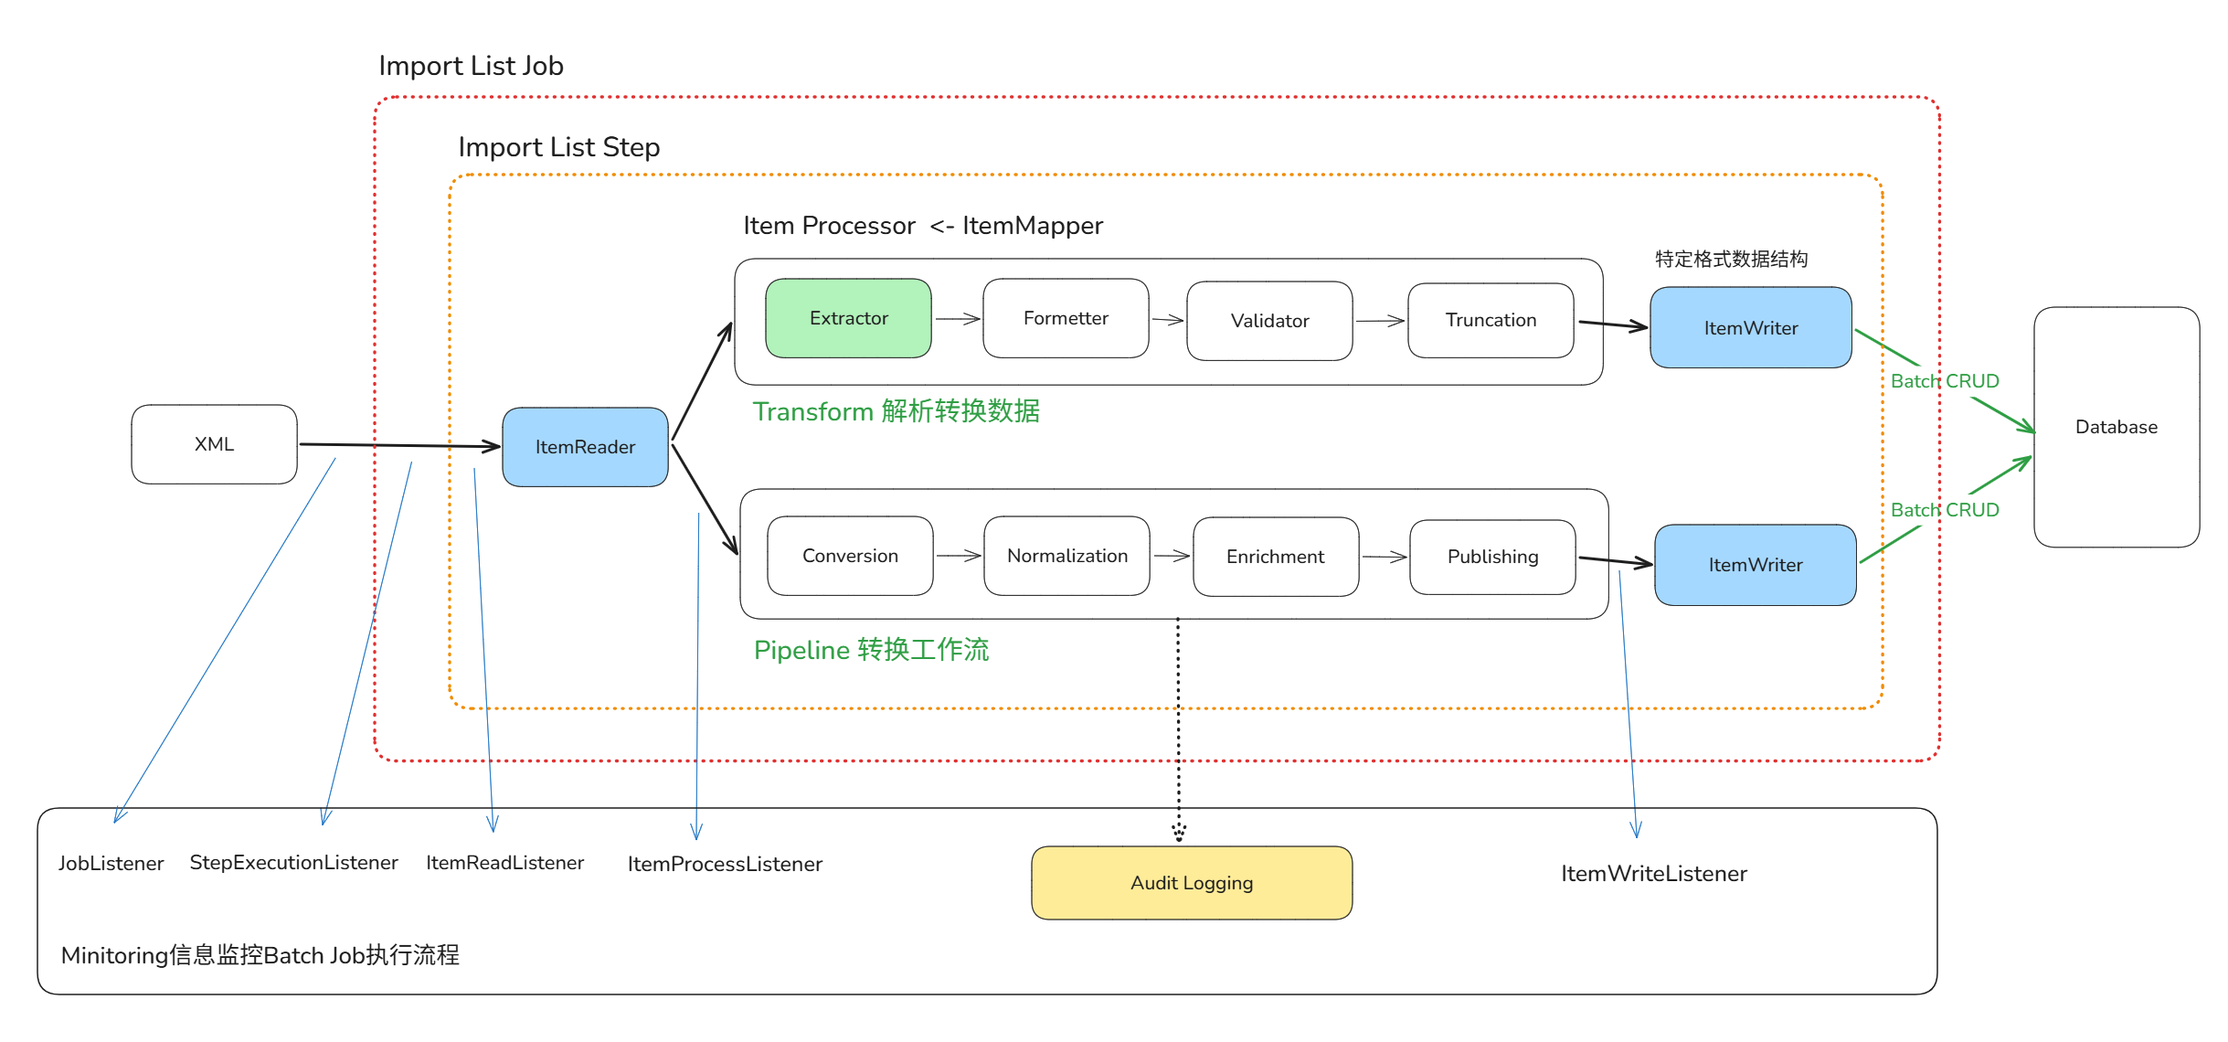
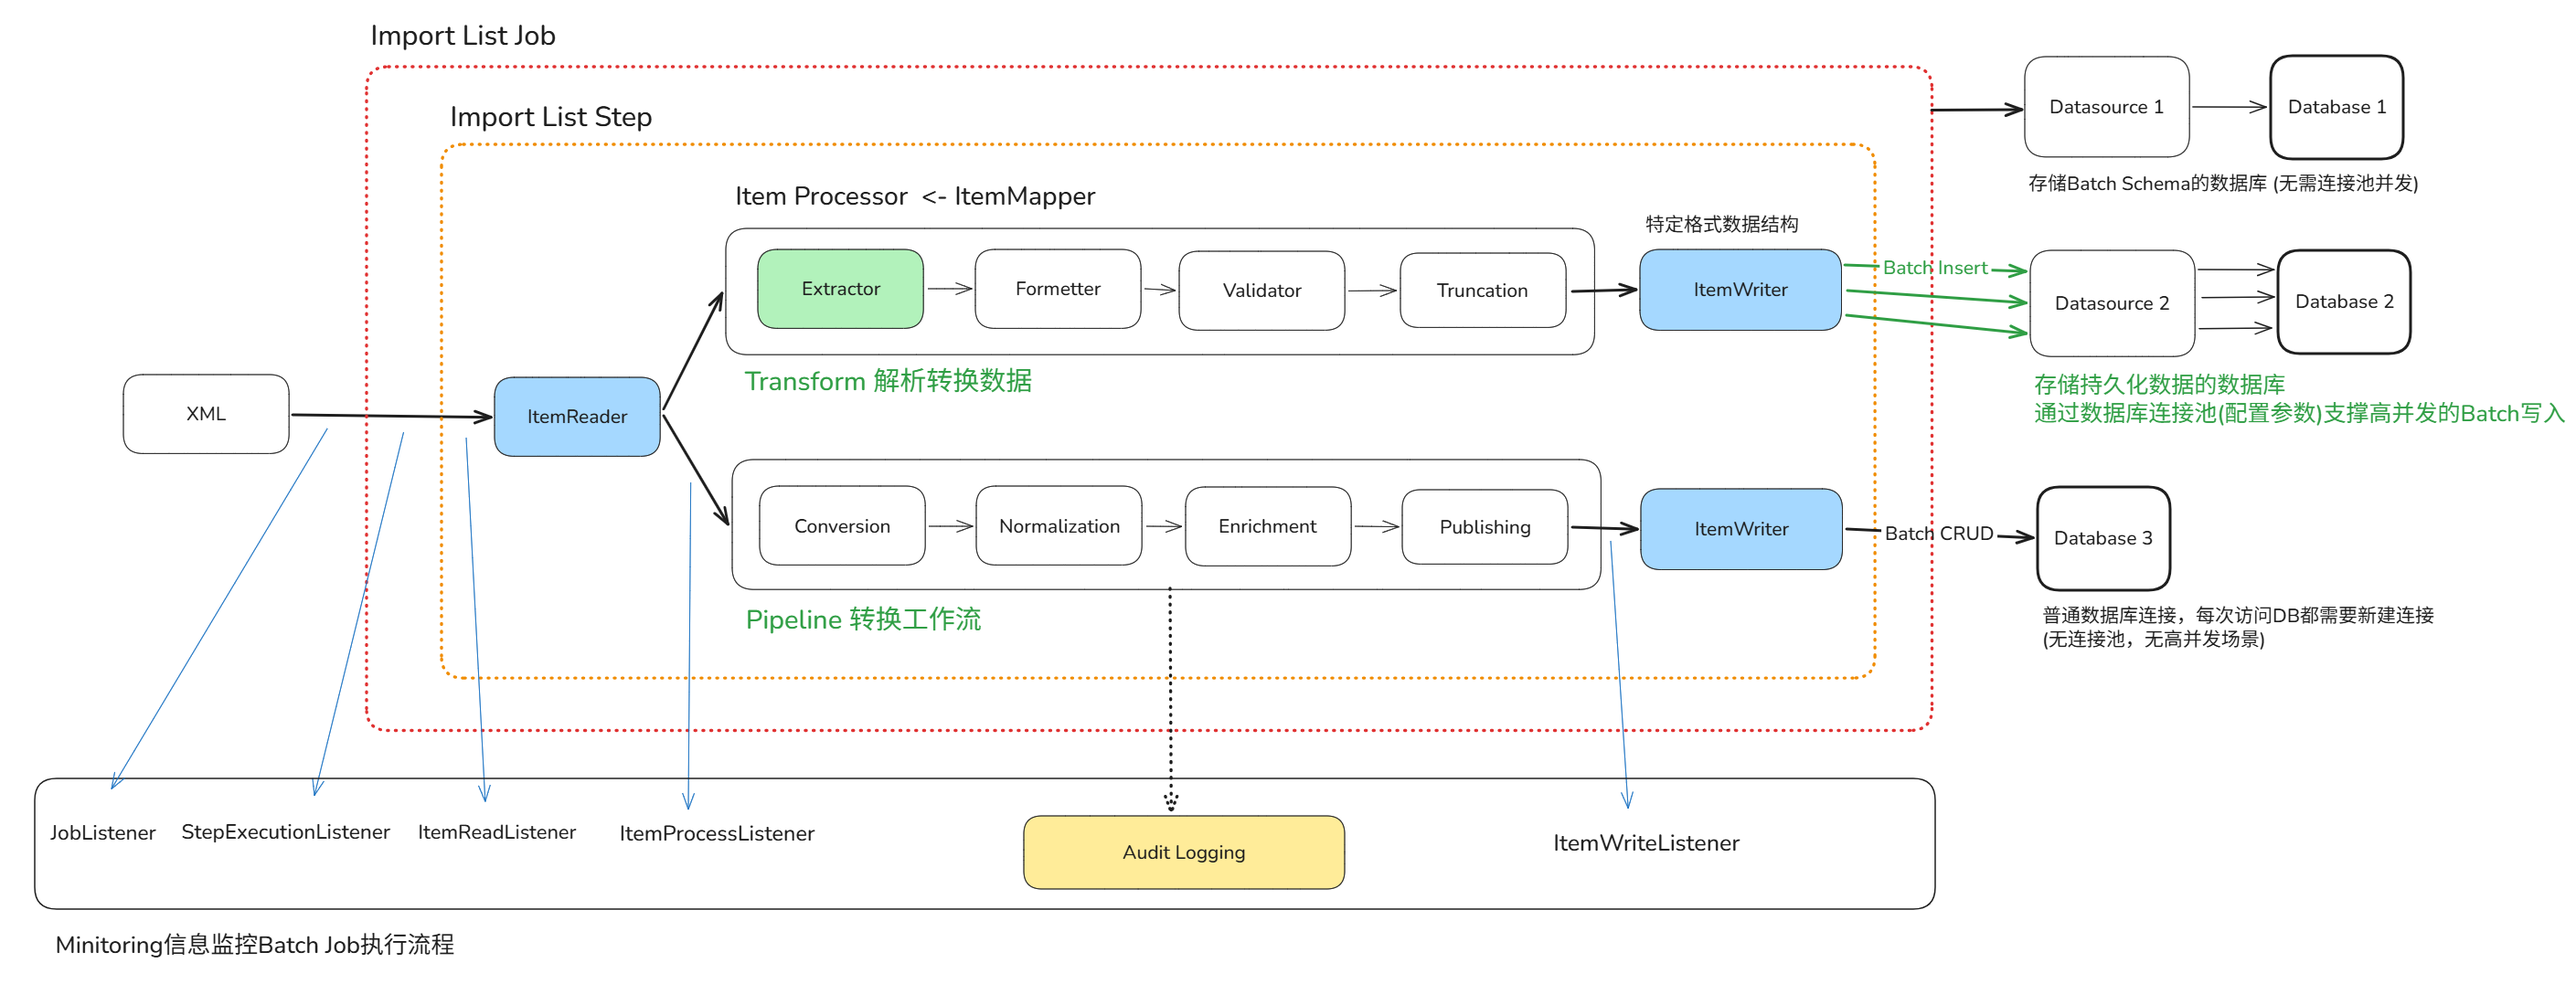
refresh spring batch project design

diff --git a/spring-batch-project/src/main/java/project/DatasourceConfiguration.java b/spring-batch-project/src/main/java/project/DatasourceConfiguration.java
@@ -1,25 +1,31 @@
 package project;
 
+import com.zaxxer.hikari.HikariDataSource;
 import org.springframework.batch.core.configuration.BatchConfigurationException;
 import org.springframework.batch.core.configuration.support.DefaultBatchConfiguration;
 import org.springframework.batch.core.repository.JobRepository;
 import org.springframework.batch.core.repository.support.JdbcJobRepositoryFactoryBean;
 import org.springframework.context.annotation.Bean;
 import org.springframework.context.annotation.Configuration;
-import org.springframework.jdbc.datasource.DriverManagerDataSource;
 
 import javax.sql.DataSource;
 
 @Configuration
-public class DatabaseConfiguration extends DefaultBatchConfiguration {
+public class DatasourceConfiguration extends DefaultBatchConfiguration {
 
+    // TODO. 配置支撑高并发CRUD的数据库连接池
     @Bean
     public DataSource dataSource() {
-        DriverManagerDataSource dataSource = new DriverManagerDataSource();
+        HikariDataSource dataSource = new HikariDataSource();
         dataSource.setDriverClassName("org.postgresql.Driver");
+        dataSource.setJdbcUrl("jdbc:postgresql://localhost:5432/spring_batch");
         dataSource.setUsername("postgres");
         dataSource.setPassword("postgres");
-        dataSource.setUrl("jdbc:postgresql://localhost:5432/spring_batch");
+
+        dataSource.setMaximumPoolSize(4 * 2 + 1);
+        dataSource.setMinimumIdle(4);
+        dataSource.setConnectionTimeout(60000);
+        dataSource.setMaxLifetime(580000);
         return dataSource;
     }
 

diff --git a/spring-batch-core/src/main/java/spring/batch/DatabaseConfiguration.java b/spring-batch-core/src/main/java/spring/batch/DatabaseConfiguration.java
@@ -13,21 +13,22 @@ import javax.sql.DataSource;
 @Configuration
 public class DatabaseConfiguration extends DefaultBatchConfiguration {
 
+    // TODO. 普通数据库连接(无连接池控制), 每次都新创建连接
     @Bean
     public DataSource dataSource() {
         DriverManagerDataSource dataSource = new DriverManagerDataSource();
         dataSource.setDriverClassName("org.postgresql.Driver");
+        dataSource.setUrl("jdbc:postgresql://localhost:5432/spring_batch");
         dataSource.setUsername("postgres");
         dataSource.setPassword("postgres");
-        dataSource.setUrl("jdbc:postgresql://localhost:5432/spring_batch");
         return dataSource;
     }
 
     @Bean
-    public JobRepository jobRepository(DataSource dataSource) throws BatchConfigurationException {
+    public JobRepository jobRepository() throws BatchConfigurationException {
         try {
             JdbcJobRepositoryFactoryBean factory = new JdbcJobRepositoryFactoryBean();
-            factory.setDataSource(dataSource);
+            factory.setDataSource(dataSource());
             factory.setTransactionManager(getTransactionManager());
             factory.setIsolationLevelForCreate("ISOLATION_READ_COMMITTED");
             factory.afterPropertiesSet();
